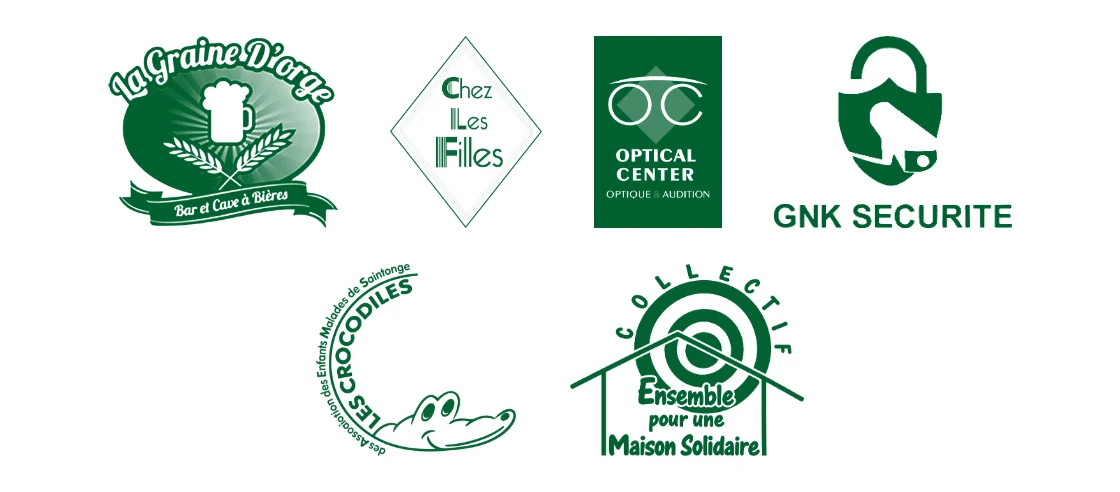
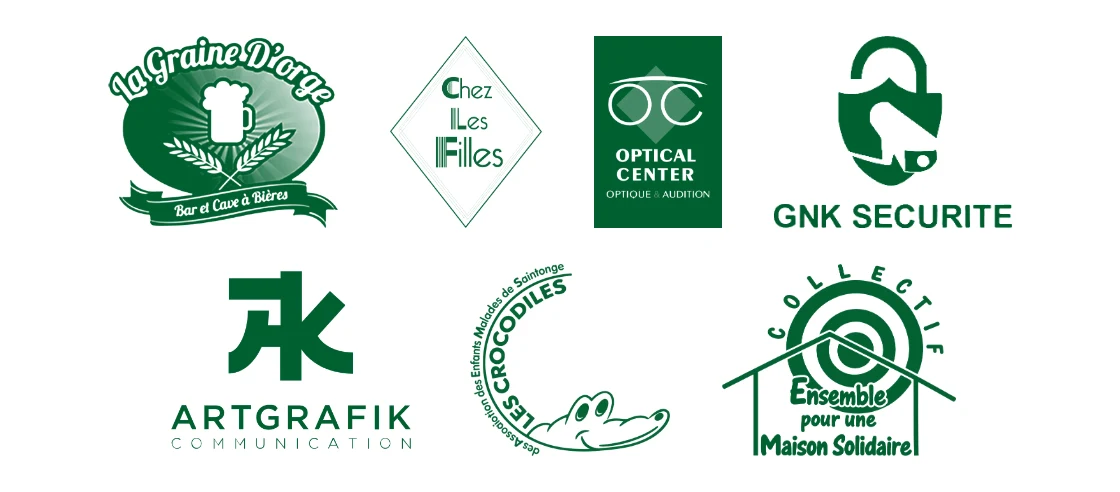
mAJ

Changed region(s): [[0.1562, 0.5183, 0.875, 0.9451]]

diff --git a/index.html b/index.html
@@ -77,6 +77,20 @@
 <div class="car" data-speed="34" style="--h:360px" role="region" aria-label="Affiches des événements, de 2026 à 2018"><button class="car-btn prev" aria-label="Précédent">‹</button><div class="car-view" tabindex="0"><div class="car-track"><figure><img src="assets/img/brand/affiche-pneud-2026.webp" alt="Affiche : Le Père Noël est un Dubber #8" width="1000" height="1414" loading="lazy" decoding="async"><figcaption><b>Le Père Noël est un Dubber #8</b>Décembre 2026</figcaption></figure><figure><img src="assets/img/affiches/20-fcu4.webp" alt="Affiche : Festival des Cultures Urbaines #4" width="870" height="1288" loading="lazy" decoding="async"><figcaption><b>Festival des Cultures Urbaines #4</b>Juin 2026</figcaption></figure><figure><img src="assets/img/affiches/19-festiv.webp" alt="Affiche : Festivités Urbaines" width="3543" height="5315" loading="lazy" decoding="async"><figcaption><b>Festivités Urbaines #1</b>Juin 2025</figcaption></figure><figure><img src="assets/img/affiches/18-pneud7.webp" alt="Affiche : Le Père Noël est un Dubber #7" width="1417" height="2003" loading="lazy" decoding="async"><figcaption><b>Le Père Noël est un Dubber #7</b>Décembre 2024</figcaption></figure><figure><img src="assets/img/affiches/17-fcu3.webp" alt="Affiche : Festival des Cultures Urbaines #3" width="2362" height="3447" loading="lazy" decoding="async"><figcaption><b>Festival des Cultures Urbaines #3</b>Juillet 2024</figcaption></figure><figure><img src="assets/img/affiches/16-fdm24.webp" alt="Affiche : Fête de la musique au skatepark" width="1417" height="2003" loading="lazy" decoding="async"><figcaption><b>Fête de la musique au skatepark</b>Juin 2024</figcaption></figure><figure><img src="assets/img/affiches/15-pneud6.webp" alt="Affiche : Le Père Noël est un Dubber #6" width="3508" height="4961" loading="lazy" decoding="async"><figcaption><b>Le Père Noël est un Dubber #6</b>Décembre 2023</figcaption></figure><figure><img src="assets/img/affiches/14-fcu2.webp" alt="Affiche : Festival des Cultures Urbaines #2" width="926" height="1290" loading="lazy" decoding="async"><figcaption><b>Festival des Cultures Urbaines #2</b>Juin 2023</figcaption></figure><figure><img src="assets/img/affiches/13-fdm23.webp" alt="Affiche : Fête de la musique au skatepark" width="1417" height="2003" loading="lazy" decoding="async"><figcaption><b>Fête de la musique au skatepark</b>Juin 2023</figcaption></figure><figure><img src="assets/img/affiches/12-pneud5.webp" alt="Affiche : Le Père Noël est un Dubber #5" width="1169" height="1654" loading="lazy" decoding="async"><figcaption><b>Le Père Noël est un Dubber #5</b>Décembre 2022</figcaption></figure><figure><img src="assets/img/affiches/11-fcu1.webp" alt="Affiche : Festival des Cultures Urbaines" width="3508" height="4961" loading="lazy" decoding="async"><figcaption><b>Festival des Cultures Urbaines #1</b>Juin 2022</figcaption></figure><figure><img src="assets/img/affiches/10-hhh.webp" alt="Affiche : HipHop Hop Hop - Saintes Rap Session" width="918" height="1290" loading="lazy" decoding="async"><figcaption><b>HipHop Hop Hop - Saintes Rap Session</b>Mai 2022</figcaption></figure><figure><img src="assets/img/affiches/09-alternativ.webp" alt="Affiche : AlternatiV JumP x Rock Sound System" width="1417" height="2003" loading="lazy" decoding="async"><figcaption><b>AlternatiV JumP x Rock Sound System</b>Mars 2022</figcaption></figure><figure><img src="assets/img/affiches/08-pneud4.webp" alt="Affiche : Le Père Noël est un Dubber #4" width="1500" height="2121" loading="lazy" decoding="async"><figcaption><b>Le Père Noël est un Dubber #4</b>Décembre 2021</figcaption></figure><figure><img src="assets/img/affiches/07-pneud3.webp" alt="Affiche : Le Père Noël est un Dubber #3 (stream, édition COVID)" width="1417" height="2003" loading="lazy" decoding="async"><figcaption><b>Le Père Noël est un Dubber #3 (stream, édition COVID)</b>Décembre 2020</figcaption></figure><figure><img src="assets/img/affiches/06-wld.webp" alt="Affiche : We Love Dub" width="1287" height="1795" loading="lazy" decoding="async"><figcaption><b>We Love Dub</b>Février 2020</figcaption></figure><figure><img src="assets/img/affiches/05-pneud2.webp" alt="Affiche : Le Père Noël est un Dubber #2" width="1287" height="1795" loading="lazy" decoding="async"><figcaption><b>Le Père Noël est un Dubber #2</b>Décembre 2019</figcaption></figure><figure><img src="assets/img/affiches/04-ds2.webp" alt="Affiche : Dub Seeds #2" width="1417" height="2003" loading="lazy" decoding="async"><figcaption><b>Dub Seeds #2</b>Octobre 2019</figcaption></figure><figure><img src="assets/img/affiches/03-ds1.webp" alt="Affiche : Dub Seeds" width="1417" height="2003" loading="lazy" decoding="async"><figcaption><b>Dub Seeds #1</b>Juin 2019</figcaption></figure><figure><img src="assets/img/affiches/02-refraction.webp" alt="Affiche : Réfraction Sonore" width="1417" height="2003" loading="lazy" decoding="async"><figcaption><b>Réfraction Sonore</b>Avril 2019</figcaption></figure><figure><img src="assets/img/affiches/01-pneud-1.webp" alt="Affiche : Le Père Noël est un Dubber" width="1056" height="1490" loading="lazy" decoding="async"><figcaption><b>Le Père Noël est un Dubber #1</b>Décembre 2018</figcaption></figure></div></div><button class="car-btn next" aria-label="Suivant">›</button></div>
 </div></section>
 
+<section id="warmup" class="band-cream" style="padding:36px 0"><div class="wrap">
+<div class="wu" style="display:grid;grid-template-columns:minmax(0,300px) minmax(0,1fr);gap:22px;align-items:center;border:3px dashed #C9B79C;border-radius:18px;padding:18px;background:#fffdf8">
+<img src="assets/img/brand/warmup-2026.webp" alt="Visuel du warm up du Père Noël est un Dubber : samedi 21 novembre, 19h > 23h, La Graine d’Orge à Saintes, Lion’s Crown Sound et Jah Loops, gratuit" width="800" height="800" loading="lazy" decoding="async" style="width:100%;height:auto;border-radius:12px;display:block">
+<div><div class="eyebrow">Avant la soirée · un avant-goût, pas la soirée</div><h3 style="margin:4px 0 6px">Le warm up : samedi 21 novembre</h3>
+<p style="margin:0 0 8px"><b>La Graine d’Orge, Saintes</b> · 19h &gt; 23h · <b>entrée libre, sans billet</b></p>
+<p style="margin:0 0 4px">19h30 · Lion’s Crown Sound (selecta reggae / dub)</p>
+<p style="margin:0 0 4px">20h30 · Jah Loops (live electro dub / trip-hop)</p>
+<p style="margin:0 0 12px">21h30 · Lion’s Crown Sound</p>
+<p style="margin:0 0 12px;font-size:.92em;opacity:.85">Les billets ne concernent que la soirée du 19 décembre à l’Espace Mendès France.</p>
+<a class="btn btn-ghost" href="https://www.facebook.com/events/1750414602733367" target="_blank" rel="noopener">L’événement Facebook</a></div></div>
+<style>@media(max-width:700px){#warmup .wu{grid-template-columns:1fr!important}#warmup .wu img{max-width:340px;margin:0 auto}}</style>
+<script>try{if(Date.now()>=Date.parse('2026-11-22T06:00:00+01:00')){var w=document.getElementById('warmup');if(w)w.remove()}}catch(e){}</script>
+</div></section>
+
 <section id="infos" class="band-cream"><div class="wrap grid2" style="align-items:start;gap:clamp(24px,5vw,56px)">
 <div><div class="eyebrow">Samedi 19 décembre</div><h2 class="ht"><img src="assets/img/titres/8ff55b828c.webp" alt="" aria-hidden="true" width="1192" height="131" style="width:10.74em"><span class="sr">Infos pratiques</span></h2>
 <ul class="facts">
@@ -161,9 +175,9 @@
 <section id="partenaires"><div class="wrap">
 <div class="eyebrow">Merci</div><h2 class="ht"><img src="assets/img/titres/18a5ba05cd.webp" alt="" aria-hidden="true" width="1598" height="131" style="width:14.39em"><span class="sr">Ils nous soutiennent</span></h2>
 <p class="lead">Collectivités, lieux, associations, médias et entreprises : merci à tous ceux qui rendent ces événements possibles.</p>
-<div class="plogos"><div class="pgimg pgd"><img src="assets/img/partenaires/partenaires-principaux.webp" alt="Logos : La Graine d’Orge, Restaurant Chez les Filles, Optical Center, GNK Sécurité, Les Crocodiles, Collectif Ensemble pour une Maison Solidaire" width="2000" height="312" loading="lazy" decoding="async"><a class="pglink" href="https://www.bar-graine-dorge.fr/" target="_blank" rel="noopener" aria-label="La Graine d’Orge" style="left:2.71%;top:11.54%;width:14.40%;height:76.92%"></a><a class="pglink" href="https://chezlesfillesrestaurant.fr/" target="_blank" rel="noopener" aria-label="Restaurant Chez les Filles" style="left:20.51%;top:11.54%;width:9.54%;height:76.92%"></a><a class="pglink" href="https://opticien.optical-center.fr/66-opticien-saint-georges-des-coteaux-saintes-optical-center" target="_blank" rel="noopener" aria-label="Optical Center" style="left:33.45%;top:11.54%;width:7.98%;height:76.92%"></a><a class="pglink" href="https://www.facebook.com/lescrocodilesaems" target="_blank" rel="noopener" aria-label="Les Crocodiles" style="left:66.73%;top:11.54%;width:12.52%;height:76.92%"></a><a class="pglink" href="https://maisondelasolidarite.wordpress.com" target="_blank" rel="noopener" aria-label="Collectif Ensemble pour une Maison Solidaire" style="left:82.65%;top:11.54%;width:14.65%;height:76.92%"></a></div><div class="pgimg pgm"><img src="assets/img/partenaires/partenaires-principaux-mobile.webp" alt="Logos : La Graine d’Orge, Restaurant Chez les Filles, Optical Center, GNK Sécurité, Les Crocodiles, Collectif Ensemble pour une Maison Solidaire" width="1120" height="492" loading="lazy" decoding="async"><a class="pglink" href="https://www.bar-graine-dorge.fr/" target="_blank" rel="noopener" aria-label="La Graine d’Orge" style="left:9.59%;top:7.32%;width:20.57%;height:39.02%"></a><a class="pglink" href="https://chezlesfillesrestaurant.fr/" target="_blank" rel="noopener" aria-label="Restaurant Chez les Filles" style="left:34.80%;top:7.32%;width:13.63%;height:39.02%"></a><a class="pglink" href="https://opticien.optical-center.fr/66-opticien-saint-georges-des-coteaux-saintes-optical-center" target="_blank" rel="noopener" aria-label="Optical Center" style="left:53.07%;top:7.32%;width:11.40%;height:39.02%"></a><a class="pglink" href="https://www.facebook.com/lescrocodilesaems" target="_blank" rel="noopener" aria-label="Les Crocodiles" style="left:28.27%;top:53.66%;width:17.89%;height:39.02%"></a><a class="pglink" href="https://maisondelasolidarite.wordpress.com" target="_blank" rel="noopener" aria-label="Collectif Ensemble pour une Maison Solidaire" style="left:50.80%;top:53.66%;width:20.93%;height:39.02%"></a></div><div class="pgimg pgd"><img src="assets/img/partenaires/salle-materiel-services.webp" alt="Logos : Ville de Saintes, Espace Saint-Eutrope · Chapelle Chavagne, Abbaye aux Dames, cité musicale, APMAC, Ekinox, AIDES Charente-Maritime, Imprim’ Ton ID" width="2000" height="224" loading="lazy" decoding="async"><a class="pglink" href="https://imprimtonid.fr/" target="_blank" rel="noopener" aria-label="Imprim’ Ton ID" style="left:83.14%;top:16.07%;width:8.79%;height:67.86%"></a></div><div class="pgimg pgm"><img src="assets/img/partenaires/salle-materiel-services-mobile.webp" alt="Logos : Ville de Saintes, Espace Saint-Eutrope · Chapelle Chavagne, Abbaye aux Dames, cité musicale, APMAC, Ekinox, AIDES Charente-Maritime, Imprim’ Ton ID" width="1120" height="372" loading="lazy" decoding="async"><a class="pglink" href="https://imprimtonid.fr/" target="_blank" rel="noopener" aria-label="Imprim’ Ton ID" style="left:58.90%;top:54.84%;width:13.63%;height:35.48%"></a></div><div class="pgimg pgd"><img src="assets/img/partenaires/autres-soutiens.webp" alt="Logos : Culture Dub, Reggae.fr, La Grosse Radio, Trax, NOFA Sound System, Roots Tonality, Festival des Cultures Urbaines, Coconut Music Festival, Festival Tribal Elek, Festival Tonnay Bon !, Les Fous Cavés, Home Street Home, Belle Rive, Movement Child, SchoolRag’ Saintes, Allfit, Les Marraines Roses, Association Enfance et Adolescence, LSC, Les Saintaitiseurs, AFTRWRK, Otaké Productions, UNI-SON, Titi’s Bar, Concert sauvage, Coyote Minute, Tentes et Compagnie, Régie Pro 17, SACEM, Centre national de la musique, La Charente-Maritime" width="2000" height="604" loading="lazy" decoding="async"></div><div class="pgimg pgm"><img src="assets/img/partenaires/autres-soutiens-mobile.webp" alt="Logos : Culture Dub, Reggae.fr, La Grosse Radio, Trax, NOFA Sound System, Roots Tonality, Festival des Cultures Urbaines, Coconut Music Festival, Festival Tribal Elek, Festival Tonnay Bon !, Les Fous Cavés, Home Street Home, Belle Rive, Movement Child, SchoolRag’ Saintes, Allfit, Les Marraines Roses, Association Enfance et Adolescence, LSC, Les Saintaitiseurs, AFTRWRK, Otaké Productions, UNI-SON, Titi’s Bar, Concert sauvage, Coyote Minute, Tentes et Compagnie, Régie Pro 17, SACEM, Centre national de la musique, La Charente-Maritime" width="1120" height="616" loading="lazy" decoding="async"></div></div><div class="card" style="margin-top:16px"><h3>Partenaires de la 8<sup>e</sup> édition</h3><p style="margin:0 0 6px"><b>Un merci tout particulier</b> à La Graine d’Orge, au restaurant Chez les Filles, à Optical Center, à GNK Sécurité, à la Ville de Saintes, qui soutiennent la soirée financièrement.</p></div>
+<div class="plogos"><div class="pgimg pgd"><img src="assets/img/partenaires/partenaires-principaux.webp" alt="Logos : La Graine d’Orge, Restaurant Chez les Filles, Optical Center, GNK Sécurité, ArtGrafik Digital, Les Crocodiles, Collectif Ensemble pour une Maison Solidaire" width="2000" height="288" loading="lazy" decoding="async"><a class="pglink" href="https://www.bar-graine-dorge.fr/" target="_blank" rel="noopener" aria-label="La Graine d’Orge" style="left:2.08%;top:12.50%;width:12.60%;height:75.00%"></a><a class="pglink" href="https://chezlesfillesrestaurant.fr/" target="_blank" rel="noopener" aria-label="Restaurant Chez les Filles" style="left:17.28%;top:12.50%;width:8.59%;height:75.00%"></a><a class="pglink" href="https://opticien.optical-center.fr/66-opticien-saint-georges-des-coteaux-saintes-optical-center" target="_blank" rel="noopener" aria-label="Optical Center" style="left:28.47%;top:12.50%;width:7.18%;height:75.00%"></a><a class="pglink" href="https://www.artgrafik.fr" target="_blank" rel="noopener" aria-label="ArtGrafik Digital" style="left:53.45%;top:12.50%;width:12.60%;height:75.00%"></a><a class="pglink" href="https://www.facebook.com/lescrocodilesaems" target="_blank" rel="noopener" aria-label="Les Crocodiles" style="left:71.45%;top:12.50%;width:11.27%;height:75.00%"></a><a class="pglink" href="https://maisondelasolidarite.wordpress.com" target="_blank" rel="noopener" aria-label="Collectif Ensemble pour une Maison Solidaire" style="left:85.32%;top:12.50%;width:12.60%;height:75.00%"></a></div><div class="pgimg pgm"><img src="assets/img/partenaires/partenaires-principaux-mobile.webp" alt="Logos : La Graine d’Orge, Restaurant Chez les Filles, Optical Center, GNK Sécurité, ArtGrafik Digital, Les Crocodiles, Collectif Ensemble pour une Maison Solidaire" width="1120" height="492" loading="lazy" decoding="async"><a class="pglink" href="https://www.bar-graine-dorge.fr/" target="_blank" rel="noopener" aria-label="La Graine d’Orge" style="left:9.59%;top:7.32%;width:20.57%;height:39.02%"></a><a class="pglink" href="https://chezlesfillesrestaurant.fr/" target="_blank" rel="noopener" aria-label="Restaurant Chez les Filles" style="left:34.80%;top:7.32%;width:13.63%;height:39.02%"></a><a class="pglink" href="https://opticien.optical-center.fr/66-opticien-saint-georges-des-coteaux-saintes-optical-center" target="_blank" rel="noopener" aria-label="Optical Center" style="left:53.07%;top:7.32%;width:11.40%;height:39.02%"></a><a class="pglink" href="https://www.artgrafik.fr" target="_blank" rel="noopener" aria-label="ArtGrafik Digital" style="left:14.57%;top:53.66%;width:22.75%;height:39.02%"></a><a class="pglink" href="https://www.facebook.com/lescrocodilesaems" target="_blank" rel="noopener" aria-label="Les Crocodiles" style="left:41.97%;top:53.66%;width:17.89%;height:39.02%"></a><a class="pglink" href="https://maisondelasolidarite.wordpress.com" target="_blank" rel="noopener" aria-label="Collectif Ensemble pour une Maison Solidaire" style="left:64.50%;top:53.66%;width:20.93%;height:39.02%"></a></div><div class="pgimg pgd"><img src="assets/img/partenaires/salle-materiel-services.webp" alt="Logos : Ville de Saintes, Espace Saint-Eutrope · Chapelle Chavagne, Abbaye aux Dames, cité musicale, APMAC, Ekinox, AIDES Charente-Maritime, Imprim’ Ton ID" width="2000" height="224" loading="lazy" decoding="async"><a class="pglink" href="https://imprimtonid.fr/" target="_blank" rel="noopener" aria-label="Imprim’ Ton ID" style="left:83.14%;top:16.07%;width:8.79%;height:67.86%"></a></div><div class="pgimg pgm"><img src="assets/img/partenaires/salle-materiel-services-mobile.webp" alt="Logos : Ville de Saintes, Espace Saint-Eutrope · Chapelle Chavagne, Abbaye aux Dames, cité musicale, APMAC, Ekinox, AIDES Charente-Maritime, Imprim’ Ton ID" width="1120" height="372" loading="lazy" decoding="async"><a class="pglink" href="https://imprimtonid.fr/" target="_blank" rel="noopener" aria-label="Imprim’ Ton ID" style="left:58.90%;top:54.84%;width:13.63%;height:35.48%"></a></div><div class="pgimg pgd"><img src="assets/img/partenaires/autres-soutiens.webp" alt="Logos : Culture Dub, Reggae.fr, La Grosse Radio, Trax, NOFA Sound System, Roots Tonality, Festival des Cultures Urbaines, Coconut Music Festival, Festival Tribal Elek, Festival Tonnay Bon !, Les Fous Cavés, Home Street Home, Belle Rive, Movement Child, SchoolRag’ Saintes, Allfit, Les Marraines Roses, Association Enfance et Adolescence, LSC, Les Saintaitiseurs, AFTRWRK, Otaké Productions, UNI-SON, Titi’s Bar, Concert sauvage, Coyote Minute, Tentes et Compagnie, Régie Pro 17, SACEM, Centre national de la musique, La Charente-Maritime" width="2000" height="604" loading="lazy" decoding="async"></div><div class="pgimg pgm"><img src="assets/img/partenaires/autres-soutiens-mobile.webp" alt="Logos : Culture Dub, Reggae.fr, La Grosse Radio, Trax, NOFA Sound System, Roots Tonality, Festival des Cultures Urbaines, Coconut Music Festival, Festival Tribal Elek, Festival Tonnay Bon !, Les Fous Cavés, Home Street Home, Belle Rive, Movement Child, SchoolRag’ Saintes, Allfit, Les Marraines Roses, Association Enfance et Adolescence, LSC, Les Saintaitiseurs, AFTRWRK, Otaké Productions, UNI-SON, Titi’s Bar, Concert sauvage, Coyote Minute, Tentes et Compagnie, Régie Pro 17, SACEM, Centre national de la musique, La Charente-Maritime" width="1120" height="616" loading="lazy" decoding="async"></div></div><div class="card" style="margin-top:16px"><h3>Partenaires de la 8<sup>e</sup> édition</h3><p style="margin:0 0 6px"><b>Un merci tout particulier</b> à La Graine d’Orge, au restaurant Chez les Filles, à Optical Center, à GNK Sécurité, à ArtGrafik Digital, à la Ville de Saintes, qui soutiennent la soirée financièrement.</p></div>
 <div class="card becomep"><div><div class="eyebrow">ENTREPRISES, COMMERCES, COLLECTIVITÉS</div><h3>Devenez partenaire de la 8<sup>e</sup> édition</h3>
-<p>Votre soutien, même modeste, aide à garder une soirée accessible et solidaire. Don financier, don en nature ou en matériel, apport en visibilité : nous étudions toutes les propositions, à toutes les échelles. En retour : votre logo sur place et sur nos réseaux, et votre nom associé à une soirée solidaire. Toutes les infos sont dans le dossier partenaires.</p><p style="margin-top:8px;font-weight:800">Pour être sur les affiches et les flyers, envoyez-nous votre logo avant le 16 octobre.</p></div>
+<p>Votre soutien, même modeste, aide à garder une soirée accessible et solidaire. Don financier, don en nature ou en matériel, apport en visibilité : nous étudions toutes les propositions, à toutes les échelles. En retour : votre logo sur place et sur nos réseaux, et votre nom associé à une soirée solidaire. Toutes les infos sont dans le dossier partenaires.</p></div>
 <div class="row becomep-btns"><a class="btn btn-red" href="https://www.helloasso.com/associations/jump-around/formulaires/3" target="_blank" rel="noopener" data-track="DonClick" data-src="partenaires">Devenir partenaire</a><a class="btn btn-green" href="presse/Jump-Around_Dossier-partenaires.pdf" target="_blank" rel="noopener">Le dossier partenaires (PDF)</a><a class="btn btn-ghost" href="mailto:assojumparound@gmail.com?subject=Partenariat%20Le%20P%C3%A8re%20No%C3%ABl%20est%20un%20Dubber">Nous écrire</a></div></div>
 
 </div></section>
